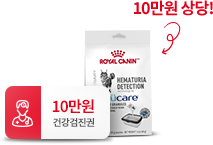
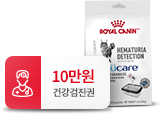
수정사항 0806 - 메인 버튼 이미지 수정

diff --git a/m/css/style.css b/m/css/style.css
@@ -283,10 +283,10 @@ button.with-icon:after {
 	line-height: 1.3;
 }
 .content .section._01 #sec1-btn img {
-	width: 104px;
+	width: 75px;
 	position: absolute;
-	right: -16px;
-	top: -30px;
+	right: 13px;
+	top: -11px;
 }
 .content .section._01 .cat {
 	position: absolute;

diff --git a/css/style.css b/css/style.css
@@ -341,8 +341,8 @@ button.with-icon:after {
 }
 .content .section._01 #sec1-btn img {
 	position: absolute;
-	right: -33px;
-	top: -81px;
+	right: 18px;
+	top: -51px;
 }
 .content .section._01 .cat {
 	position: absolute;

diff --git a/m/index.php b/m/index.php
@@ -74,7 +74,7 @@
                     <h1 class="title-block">
                         <img src="./images/project_logo.svg" alt="고양이 주치의 프로젝트" class="project-logo">
                         <img src="./images/main_01_title.png" alt="고양이는 아파도 숨기는 사실, 알고 계세요? 반려묘가 숨기고 있을지 모를 건강 신호 확인해보고 무료 건강검진의 기회도 받아보세요!" class="title">
-                        <a href="javascript:void(0)" class="type-01" id="sec1-btn" onclick="gtag('event', '주치의력테스트로 점프', {'event_category': '메인페이지', 'event_label': '주치의력테스트로 점프'});sectionMove('#section3');">건강체크하고<br>경품받기<img src="./images/main_01_product.png" alt=""></a>
+                        <a href="javascript:void(0)" class="type-01" id="sec1-btn" onclick="gtag('event', '주치의력테스트로 점프', {'event_category': '메인페이지', 'event_label': '주치의력테스트로 점프'});sectionMove('#section3');">건강체크하고<br>경품받기<img src="./images/main_01_product.png?ver=200806" alt=""></a>
                     </h1>
                     <!-- <img src="./images/main_01_cat.png" alt="고양이" class="cat resize-elm" data-width="0.51"> -->
                     <img src="./images/main_01_cat.png" alt="고양이" class="cat resize-elm" data-width="0.54">

diff --git a/index.php b/index.php
@@ -67,7 +67,7 @@
                             <p><b>건강 이상 신호 확인</b>해보고</p>
                             <p><b>무료 건강검진의 기회</b>도 받아보세요!</p>
                         </div>
-                        <a href="javascript:void(0)" class="type-01" id="sec1-btn" onclick="gtag('event', '주치의력테스트로 점프', {'event_category': '메인페이지', 'event_label': '주치의력테스트로 점프'});sectionMove('#section3');">건강체크하고 경품받기<img src="./images/main_01_product.png" alt=""></a>
+                        <a href="javascript:void(0)" class="type-01" id="sec1-btn" onclick="gtag('event', '주치의력테스트로 점프', {'event_category': '메인페이지', 'event_label': '주치의력테스트로 점프'});sectionMove('#section3');">건강체크하고 경품받기<img src="./images/main_01_product.png?ver=200806" alt=""></a>
                     </h1>
                     <img src="./images/main_01_cat.png" alt="고양이" class="cat resize-elm" data-width="0.51">
                     <!-- scroll down -->

diff --git a/head.php b/head.php
@@ -20,7 +20,7 @@
 		<link rel="stylesheet" href="./css/reset.css">
 		<link rel="stylesheet" href="./css/font.css">
 		<link rel="stylesheet" href="https://cdnjs.cloudflare.com/ajax/libs/Chart.js/2.9.3/Chart.min.css">
-		<link rel="stylesheet" href="./css/style.css?ver=200805">
+		<link rel="stylesheet" href="./css/style.css?ver=200806">
 		<!-- <script src="./js/widget_api.js"></script>
 		<script src="./js/player_api.js"></script> -->
         <script src="https://code.jquery.com/jquery-2.2.4.min.js" integrity="sha256-BbhdlvQf/xTY9gja0Dq3HiwQF8LaCRTXxZKRutelT44=" crossorigin="anonymous"></script>

diff --git a/m/head.php b/m/head.php
@@ -20,7 +20,7 @@
 		<link rel="stylesheet" href="./css/reset.css">
 		<link rel="stylesheet" href="./css/font.css">
 		<link rel="stylesheet" href="https://cdnjs.cloudflare.com/ajax/libs/Chart.js/2.9.3/Chart.min.css">
-		<link rel="stylesheet" href="./css/style.css?ver=200805">
+		<link rel="stylesheet" href="./css/style.css?ver=200806">
 		<script src="../js/jquery-3.3.1.min.js"></script>
 		<script src="https://cdnjs.cloudflare.com/ajax/libs/gsap/3.3.1/gsap.min.js"></script>
 		<script src="../js/m_main.js"></script>
